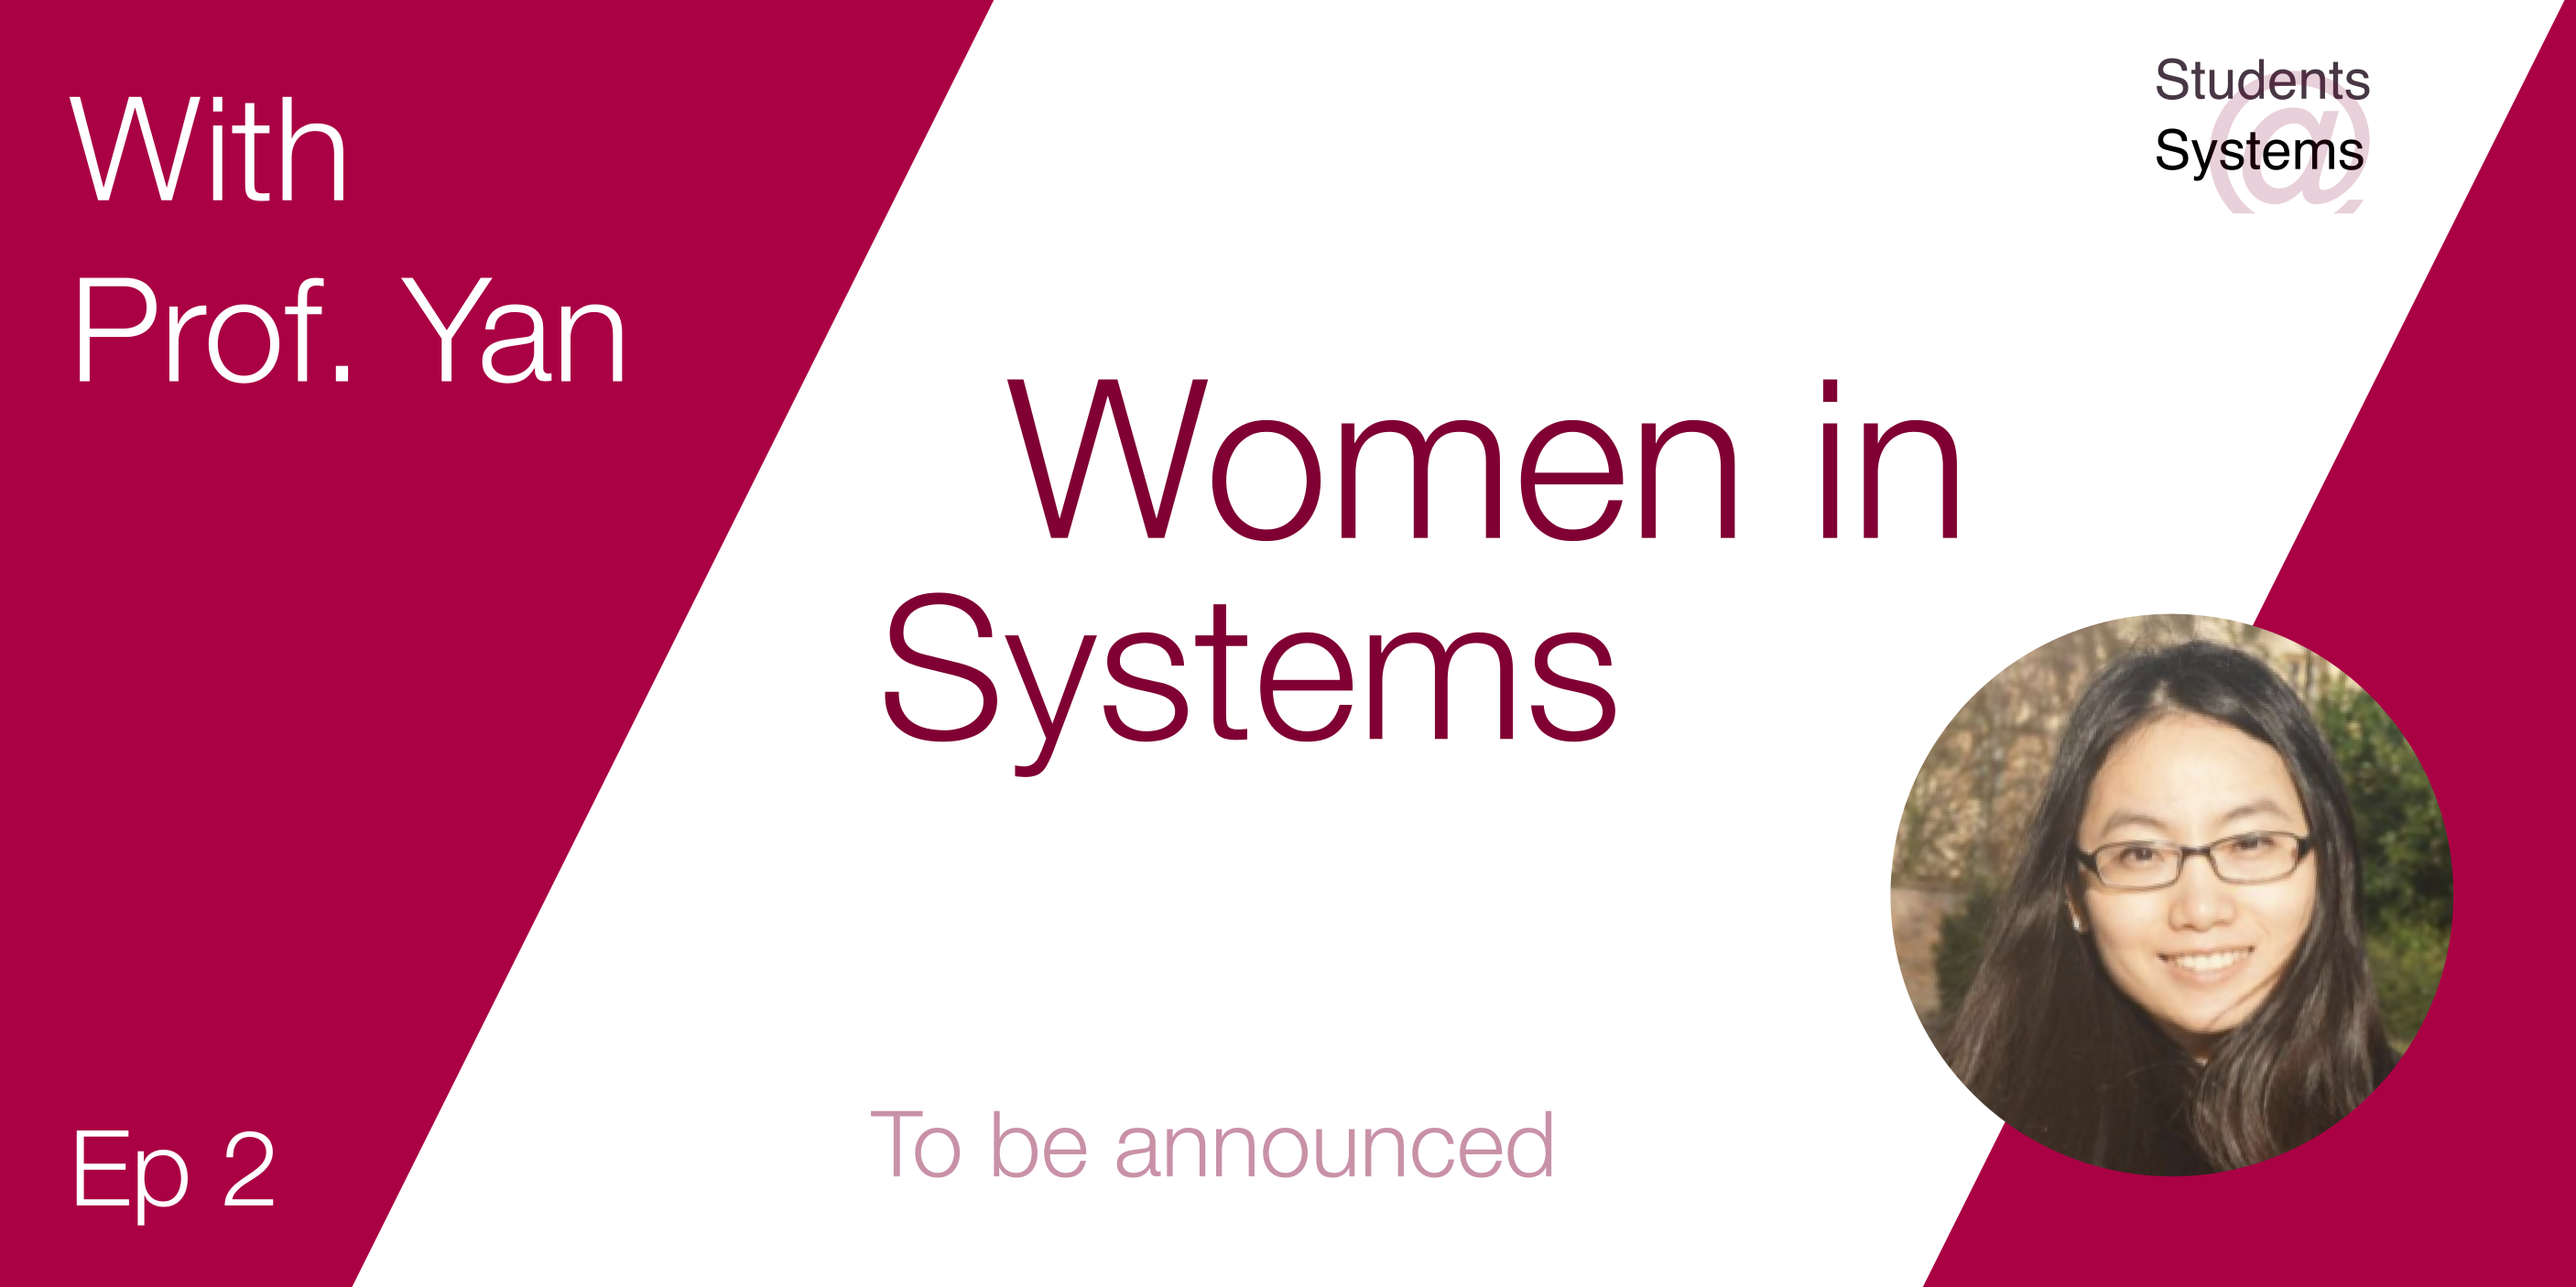
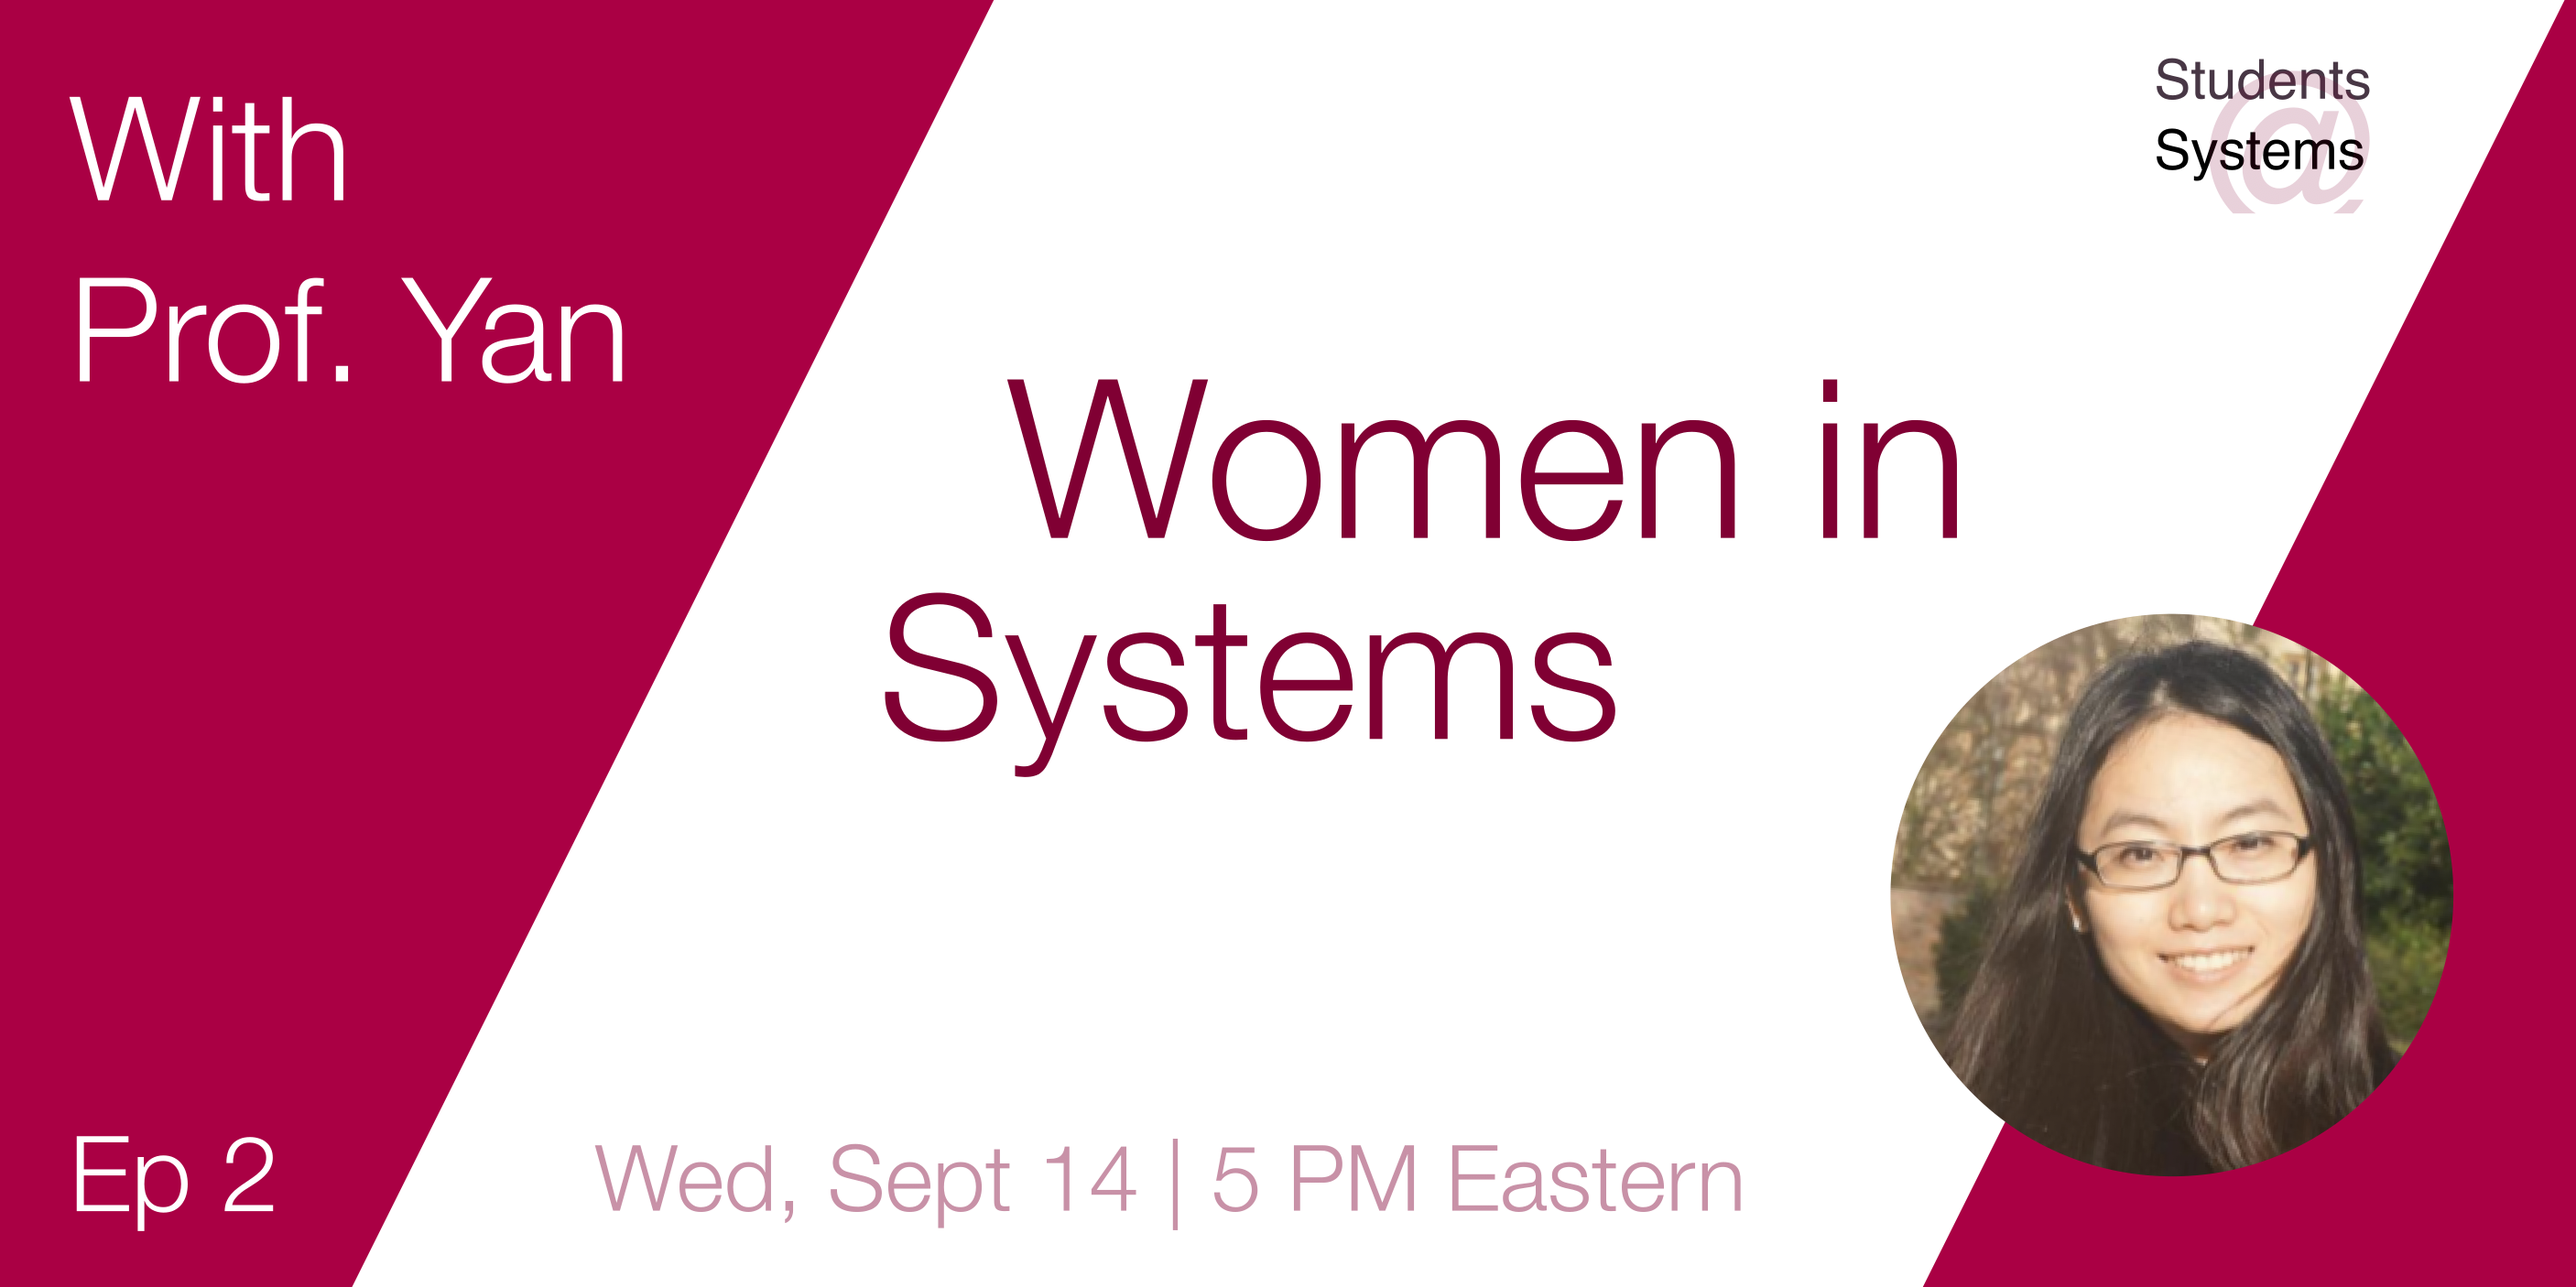
Update event details

Changed region(s): [[0.2165, 0.8563, 0.6804, 0.9481], [0.0309, 0.8563, 0.1237, 0.9481]]

diff --git a/pages/events/women-in-systems-ep2.md b/pages/events/women-in-systems-ep2.md
@@ -2,8 +2,8 @@
 title: Women in Systems, Ep. 2
 layout: default
 categories: future-event
-when-happened: Week 2, Sept 2022
-when-happened-epoch: 1761806800 <!-- UNIX epoch, used for sorting -->
+when-happened: Wed, Sept 14 2022
+when-happened-epoch: 1663189200 <!-- UNIX epoch, used for sorting -->
 preview-img: assets/img/women-in-systems-ep2/ep2.png
 summary: Panel focuses on insights from leaders in Systems to help current and future generations of researchers.
 ---
@@ -22,7 +22,7 @@ For the second episode we will have Prof. Mengjia Yan and chat with her about he
 <hr>
 
 * When:
-  * To be announced!
+  * <div style="font-weight: bold;" class="time-fmt-local" data-start="1663189200" data-duration="3600" data-show-timezone-link="true"></div>
 * Where:  
   * To be announced!
 
